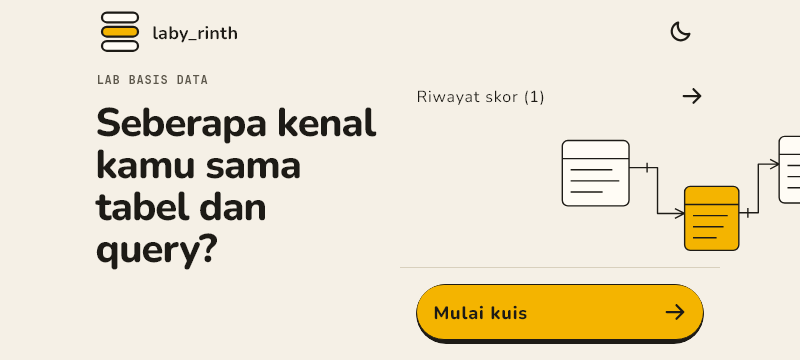
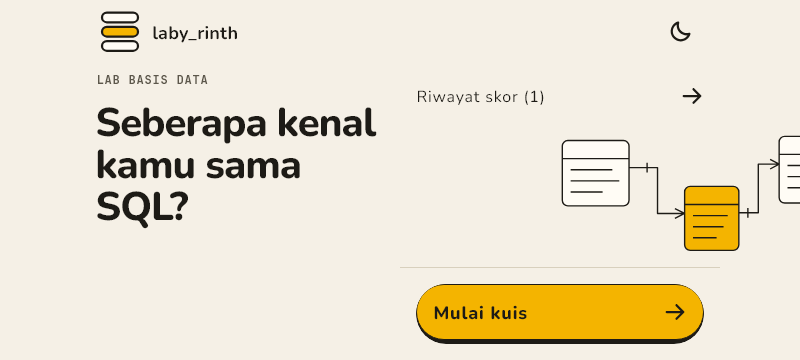
feat(home): shorten headline to SQL

Changed region(s): [[0.0938, 0.5194, 0.3438, 0.6417], [0.125, 0.6417, 0.2812, 0.7639]]

diff --git a/lib/core/constants/app_strings.dart b/lib/core/constants/app_strings.dart
@@ -59,7 +59,7 @@ abstract final class AppStrings {
 
   static const appName = 'laby_rinth';
   static const homeEyebrow = 'LAB BASIS DATA';
-  static const homeHeadline = 'Seberapa kenal kamu sama tabel dan query?';
+  static const homeHeadline = 'Seberapa kenal kamu sama SQL?';
   static const nameLabel = 'NAMA';
   static const nameHint = 'mis. Budi';
   static const nameMin = 'Nama minimal 2 karakter.';
